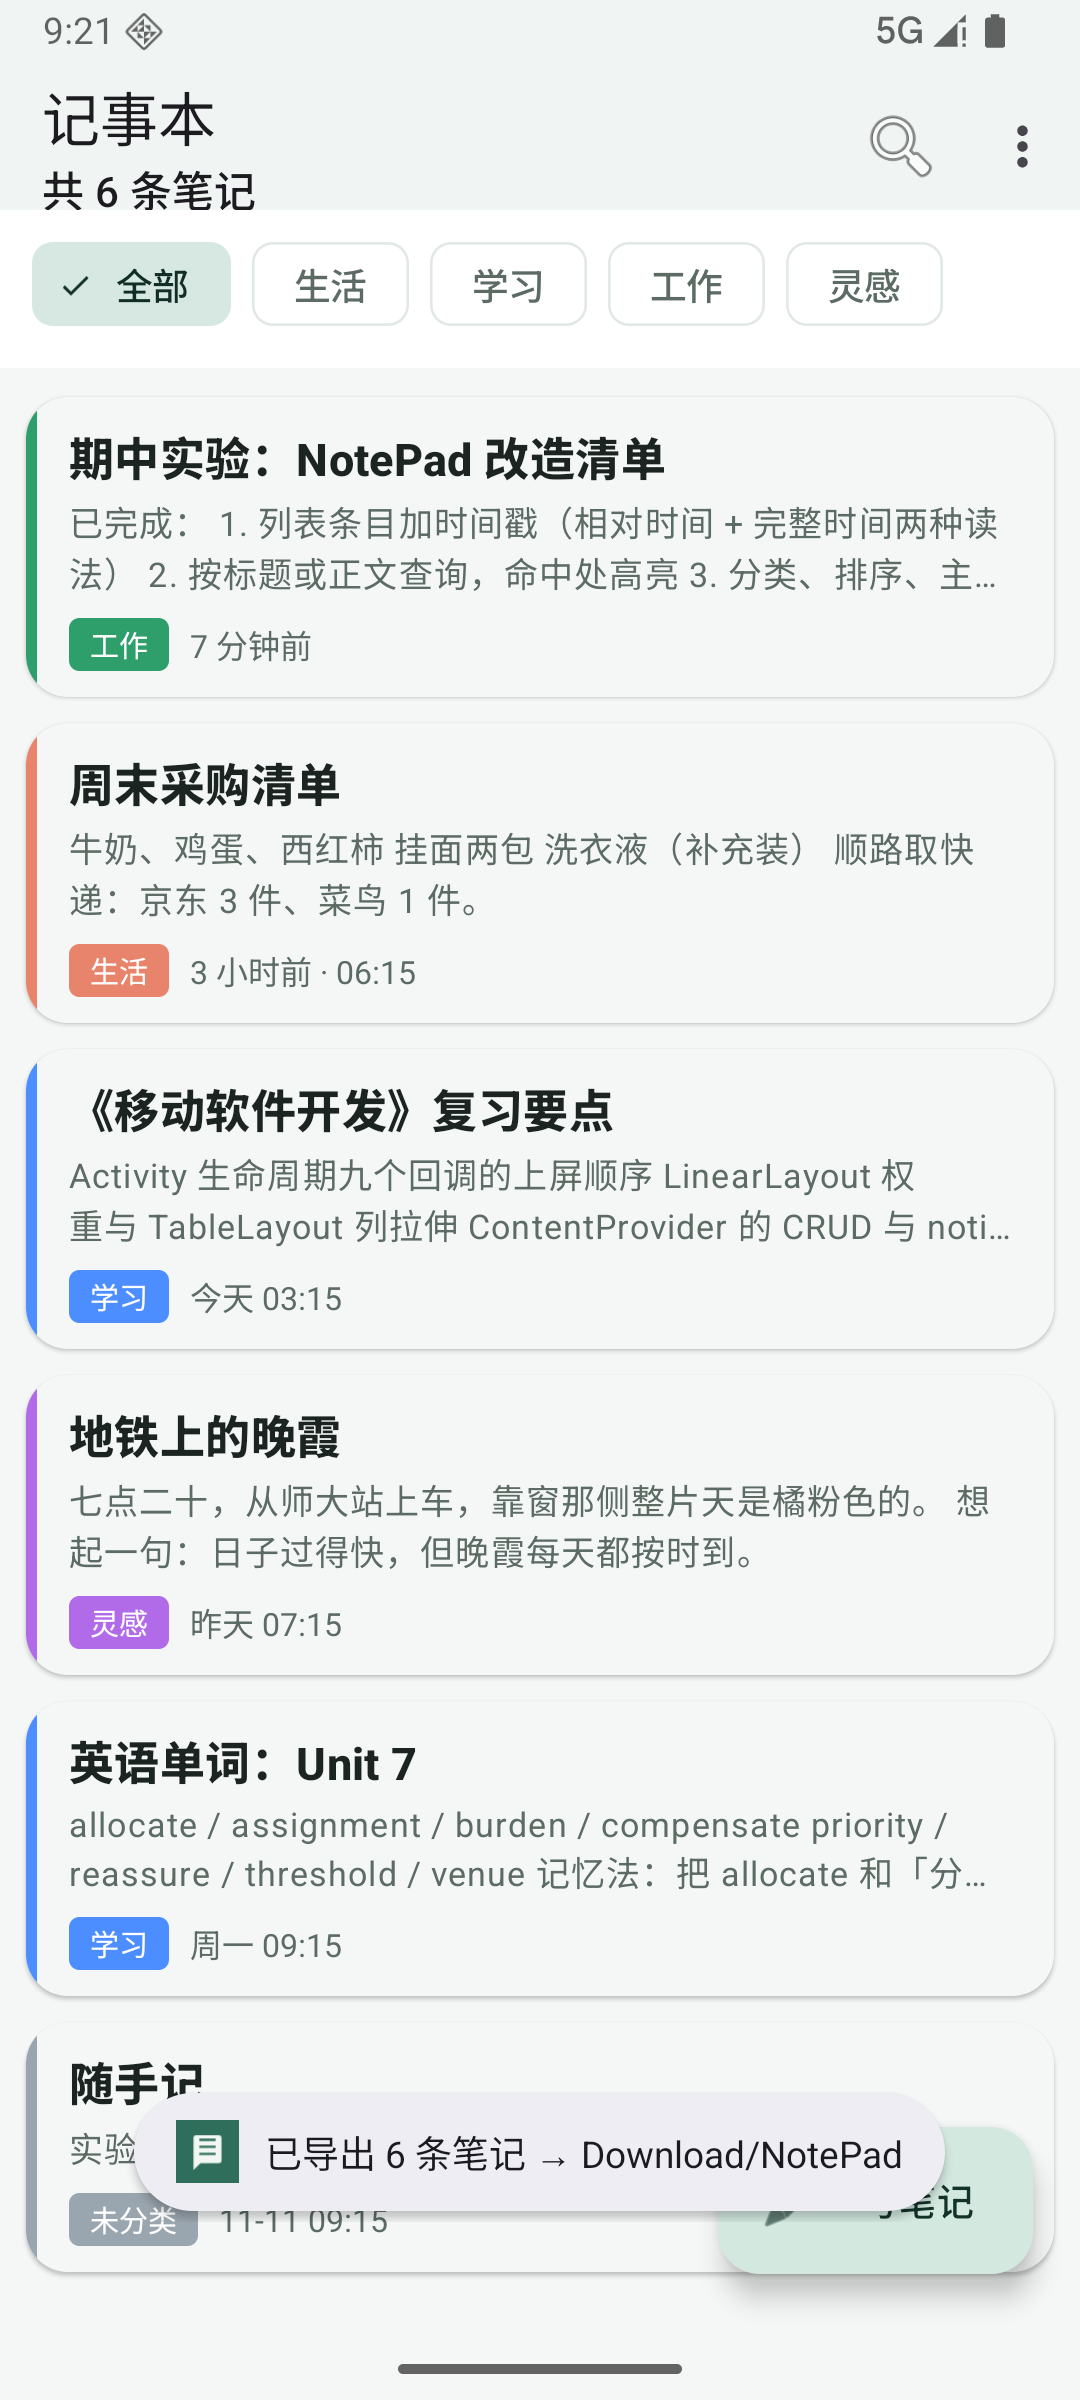
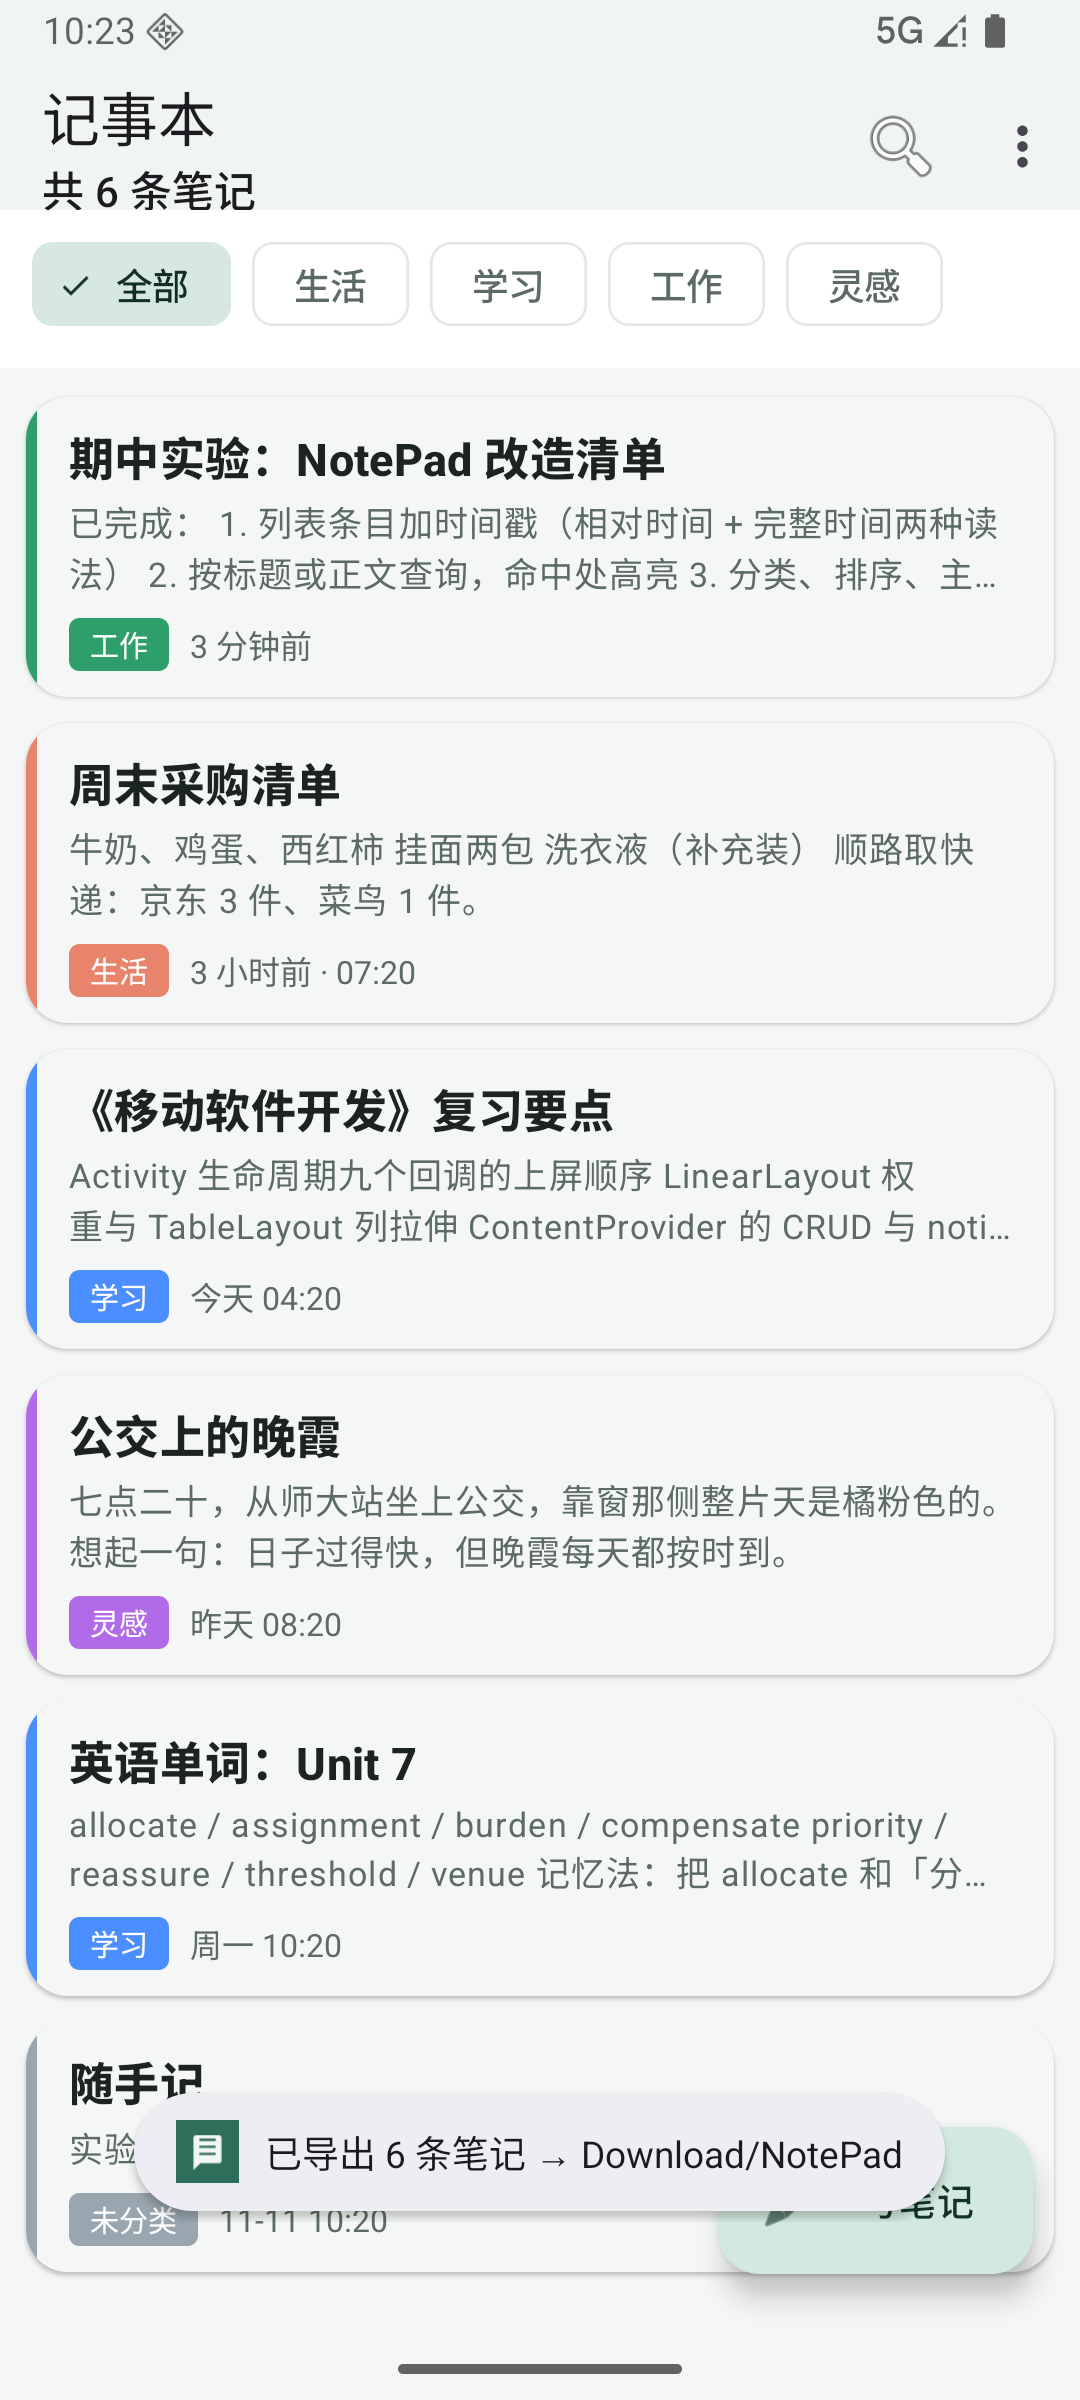
期中实验：排序改为单选对话框、菜单标题显示当前排序，演示文案改为公交，重拍截图并更新 README

diff --git a/midterm-notepad/app/src/main/java/com/example/midtermnotepad/NotesListActivity.java b/midterm-notepad/app/src/main/java/com/example/midtermnotepad/NotesListActivity.java
@@ -218,9 +218,9 @@ public class NotesListActivity extends AppCompatActivity implements NoteAdapter.
 
     @Override
     public boolean onPrepareOptionsMenu(Menu menu) {
-        menu.findItem(R.id.sort_modified).setChecked(sort == NoteStore.SORT_MODIFIED);
-        menu.findItem(R.id.sort_created).setChecked(sort == NoteStore.SORT_CREATED);
-        menu.findItem(R.id.sort_title).setChecked(sort == NoteStore.SORT_TITLE);
+        // 排序不再是子菜单，直接把当前排序写进菜单项标题，省掉「勾在哪一项」这个问题
+        menu.findItem(R.id.action_sort)
+                .setTitle(getString(R.string.menu_sort_with, sortLabel(sort)));
         boolean empty = adapter.size() == 0;
         menu.findItem(R.id.action_export).setEnabled(!empty);
         menu.findItem(R.id.action_backup).setEnabled(!empty);
@@ -230,17 +230,8 @@ public class NotesListActivity extends AppCompatActivity implements NoteAdapter.
     @Override
     public boolean onOptionsItemSelected(@NonNull MenuItem item) {
         int id = item.getItemId();
-        if (id == R.id.sort_modified) {
-            sort = NoteStore.SORT_MODIFIED;
-            reload();
-            return true;
-        } else if (id == R.id.sort_created) {
-            sort = NoteStore.SORT_CREATED;
-            reload();
-            return true;
-        } else if (id == R.id.sort_title) {
-            sort = NoteStore.SORT_TITLE;
-            reload();
+        if (id == R.id.action_sort) {
+            showSortDialog();
             return true;
         } else if (id == R.id.action_settings) {
             startActivity(new Intent(this, SettingsActivity.class));
@@ -256,6 +247,45 @@ public class NotesListActivity extends AppCompatActivity implements NoteAdapter.
             return true;
         }
         return super.onOptionsItemSelected(item);
+    }
+
+    /**
+     * 排序用单选对话框，而不是 PopupMenu 的子菜单：
+     * 子菜单没有「返回上一级」，选完想退出去只能把整份菜单重开一遍；
+     * 对话框勾完即时生效并关闭，点「取消」或返回键也能直接退出。
+     */
+    private void showSortDialog() {
+        final int[] modes = {NoteStore.SORT_MODIFIED, NoteStore.SORT_CREATED, NoteStore.SORT_TITLE};
+        String[] labels = new String[modes.length];
+        int checked = 0;
+        for (int i = 0; i < modes.length; i++) {
+            labels[i] = sortLabel(modes[i]);
+            if (modes[i] == sort) {
+                checked = i;
+            }
+        }
+        new AlertDialog.Builder(this)
+                .setTitle(R.string.menu_sort)
+                .setSingleChoiceItems(labels, checked, (dialog, which) -> {
+                    dialog.dismiss();
+                    if (sort != modes[which]) {
+                        sort = modes[which];
+                        reload();
+                        invalidateOptionsMenu();
+                    }
+                })
+                .setNegativeButton(R.string.action_cancel, null)
+                .show();
+    }
+
+    private String sortLabel(int mode) {
+        if (mode == NoteStore.SORT_CREATED) {
+            return getString(R.string.sort_created);
+        }
+        if (mode == NoteStore.SORT_TITLE) {
+            return getString(R.string.sort_title);
+        }
+        return getString(R.string.sort_modified);
     }
 
     // ------------------------------------------------------------------ 列表交互

diff --git a/midterm-notepad/app/src/main/java/com/example/midtermnotepad/Seed.java b/midterm-notepad/app/src/main/java/com/example/midtermnotepad/Seed.java
@@ -45,8 +45,8 @@ final class Seed {
                         + "ContentProvider 的 CRUD 与 notifyChange\n"
                         + "RecyclerView 局部刷新 notifyItemInserted / notifyItemRangeChanged");
 
-        insert(context, "地铁上的晚霞", NotePad.CATEGORY_IDEA, now - 2 * day, now - day - 2 * hour,
-                "七点二十，从师大站上车，靠窗那侧整片天是橘粉色的。\n"
+        insert(context, "公交上的晚霞", NotePad.CATEGORY_IDEA, now - 2 * day, now - day - 2 * hour,
+                "七点二十，从师大站坐上公交，靠窗那侧整片天是橘粉色的。\n"
                         + "想起一句：日子过得快，但晚霞每天都按时到。");
 
         insert(context, "英语单词：Unit 7", NotePad.CATEGORY_STUDY, now - 4 * day, now - 3 * day,

diff --git a/midterm-notepad/README.md b/midterm-notepad/README.md
@@ -2,7 +2,7 @@
 
 《移动软件开发》期中实验：以 AOSP 的 NotePad 示例为底子，先补齐「列表条目显示时间戳」「按标题或正文查询」两项基本要求，再按课件给出的方向做五类附加功能——主题美化、笔记分类、笔记排序、导出与备份恢复、偏好设置。
 
-> **交付状态：已完成**（tag `midterm`）。17 张实机截图见 `screenshots/`，`run-debug.bat` 可一键编译安装。
+> **交付状态：已完成**（tag `midterm`）。19 张实机截图见 `screenshots/`，`run-debug.bat` 可一键编译安装。
 >
 > **图文版实验记录**：CSDN 博客（待发布，发布后在此补链接）
 
@@ -14,7 +14,7 @@
 | 基本 ②：按标题或内容查询 | 工具栏 `SearchView`，`title LIKE ? OR note LIKE ?`，命中关键词黄底加粗高亮，输入 220ms 防抖 | 02 |
 | 附加 ①：美化 UI、更换背景 | 白昼 / 夜间 / 护眼纸三套主题，卡片式列表、分类色条、`ExtendedFAB` | 06–10 |
 | 附加 ②：笔记分类 | 生活 / 学习 / 工作 / 灵感 / 未分类，列表顶部 chip 筛选，编辑器里选分类 | 03、04 |
-| 附加 ③：笔记排序 | 按最后修改 / 按创建时间 / 按标题，溢出菜单单选组 + 设置页默认值 | 05 |
+| 附加 ③：笔记排序 | 按最后修改 / 按创建时间 / 按标题；菜单项标题直接写着当前排序，点开是一个单选对话框，勾完即生效并自动关闭 | 05、05-sort-dialog、05-sort-by-title |
 | 附加 ④：导出与备份 | 导出 Markdown、备份 JSON 到 `Download/NotePad`，从备份恢复（同标题同修改时间视为已存在，自动去重） | 11、12、16、17 |
 | 附加 ⑤：偏好设置 | 主题、编辑器字号（12–24sp）、默认排序、列表摘要开关 | 06–09 |
 | 附加 ⑥：笔记便签（未做） | — | — |
@@ -32,6 +32,10 @@
 | 溢出菜单（排序 / 设置 / 导出 / 备份 / 恢复） | 偏好设置（白昼） |
 | --- | --- |
 | ![菜单](screenshots/05-menu.png) | ![设置](screenshots/06-settings-light.png) |
+
+| 排序：单选对话框（勾完即生效，点「取消」直接退出） | 选「按标题」后的列表顺序 |
+| --- | --- |
+| ![排序对话框](screenshots/05-sort-dialog.png) | ![按标题排序](screenshots/05-sort-by-title.png) |
 
 | 偏好设置（夜间） | 列表（夜间） |
 | --- | --- |
@@ -85,7 +89,8 @@
 ### 05 排序（附加要求）
 
 - 三种排序共用一个 `sortOrder(int)`：`modified DESC` / `created DESC` / `title COLLATE NOCASE ASC`。
-- 溢出菜单里是一个 `single` 单选组，勾选态跟着当前排序走；设置页里另有一个「默认排序」，下次进列表就按它来。
+- 排序**不用菜单子菜单**：`PopupMenu` 的子菜单进得去、退不出来——Android 没有「返回上一级」的控件，要么把整份菜单关掉重开，要么自己塞一项「返回」再 `show()` 父菜单（会闪一下，很别扭）。改成菜单项「排序（当前模式）」+ 一个 `setSingleChoiceItems` 对话框：勾完立刻生效并自动关闭，「取消」和系统返回键都能直接退出，一屏之内就把当前排序看全了。
+- 设置页里另有一个「默认排序」，下次进列表就按它来。
 
 ### 06 主题与偏好（附加要求）
 
@@ -103,6 +108,7 @@
 ### 08 演示数据
 
 - `Seed` 只在 debuggable 包、且库为空时写入 6 条中文示例笔记（带错开的时间戳），保证一进 App 就能看到时间戳分级、分类色条、搜索高亮都工作；正常 release 包不会写演示数据。
+- 演示文案本身也得说得通：第 4 条写的是「公交上的晚霞」，公交在地面上跑，靠窗才看得到天色；放在地铁里就不合逻辑了（车厢在地下，抬头只有扶手和广告）。
 
 ## 构建与运行
 
@@ -129,6 +135,7 @@ adb shell am start -n com.example.midtermnotepad/.NotesListActivity
 7. **`adb` 输出偶发被吞 / 长命令被转后台**：`& $adb devices` 有时返回空，可靠做法是重定向到文件再 `Get-Content`；构建这类长命令用 `TaskOutput` 取结果。
 8. **坐标必须从 `uiautomator dump` 取**：截图是 1080×2400，但渲染出来的预览图被缩放，目测坐标乘 1.2 才对得上；直接 dump 的 `bounds` 才是设备像素。
 9. **模拟器没设备时**：`Start-Process "D:\Android\Sdk\emulator\emulator.exe" -ArgumentList "-avd","Pixel7API36","-no-snapshot-load"`，再轮询 `sys.boot_completed=1`。
+10. **`PopupMenu` 子菜单没有「返回上一级」**：`<item>` 里套 `<menu>` 做出来的二级菜单，选完想退回去只能把整份菜单重开；原地加「返回」项再 `show()` 父菜单会闪、位置也跳。最终把排序改成普通菜单项 + 单选对话框，顺带把「当前排的是哪种」写进菜单标题，省掉「两个勾」这种要靠记忆的交互。
 
 ## 目录结构
 
